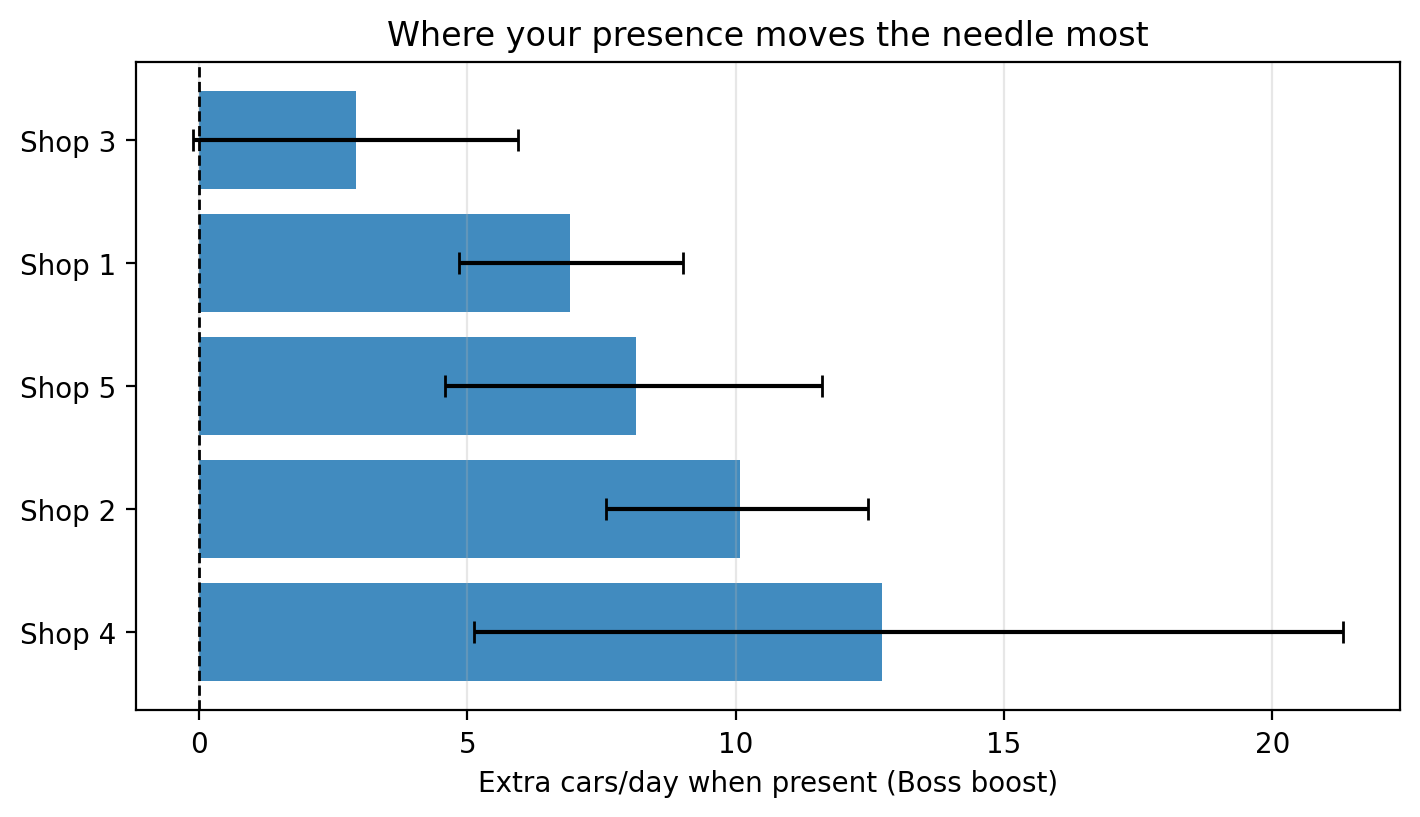
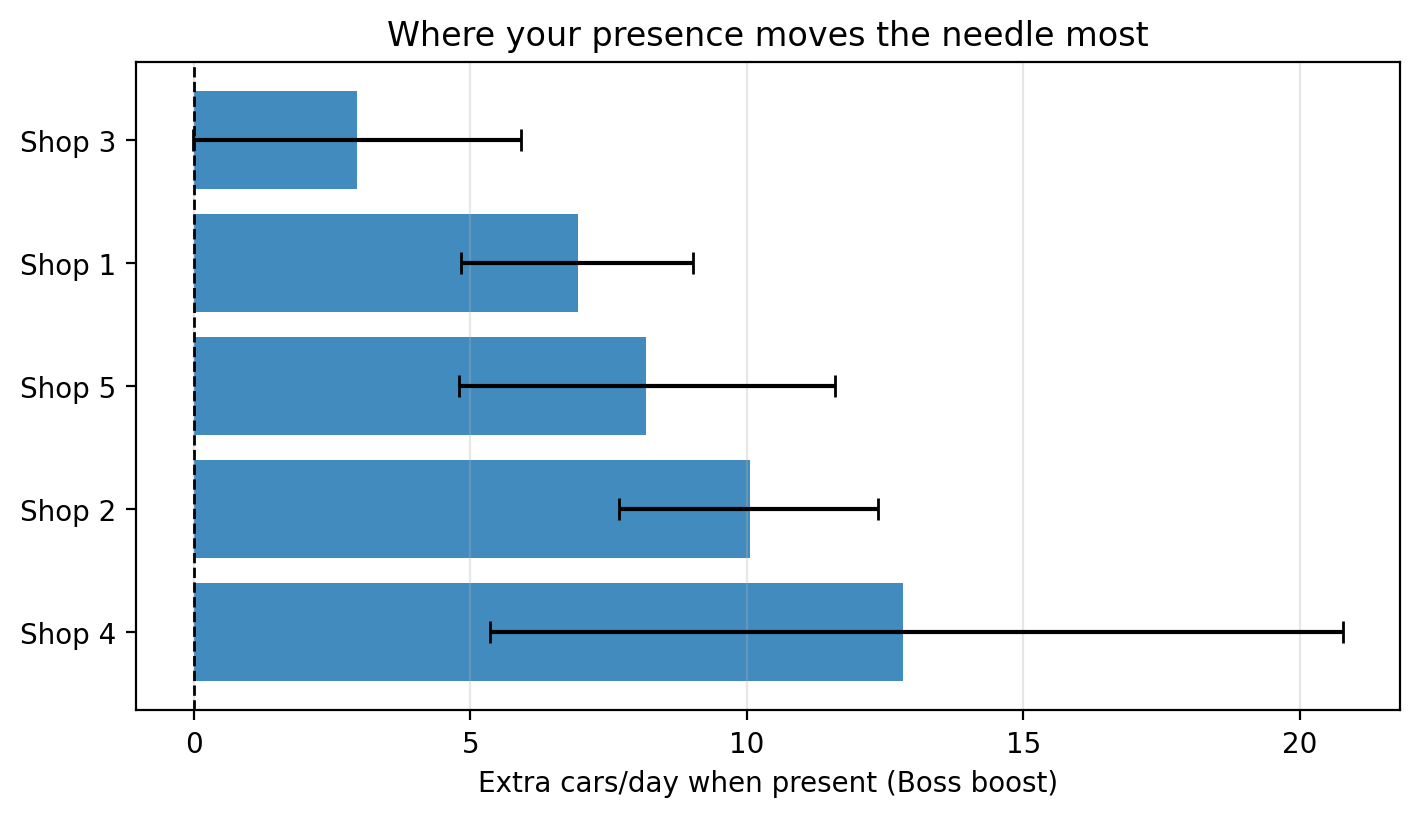
updates to plots

diff --git a/index.html b/index.html
@@ -51,25 +51,25 @@ ul.task-list li input[type="checkbox"] {
     <h2 id="toc-title">Report outline</h2>
    
   <ul class="collapse">
-  <li><a href="#snapshot-what-you-should-do" id="toc-snapshot-what-you-should-do" class="nav-link active" data-scroll-target="#snapshot-what-you-should-do"><span class="header-section-number">1</span> 1. Snapshot: What you should do</a></li>
-  <li><a href="#what-the-data-show" id="toc-what-the-data-show" class="nav-link" data-scroll-target="#what-the-data-show"><span class="header-section-number">2</span> 2. What the data show</a>
+  <li><a href="#snapshot-what-you-should-do" id="toc-snapshot-what-you-should-do" class="nav-link active" data-scroll-target="#snapshot-what-you-should-do"><span class="header-section-number">1</span> Snapshot: What you should do</a></li>
+  <li><a href="#what-the-data-show" id="toc-what-the-data-show" class="nav-link" data-scroll-target="#what-the-data-show"><span class="header-section-number">2</span> What the data show</a>
   <ul class="collapse">
-  <li><a href="#all-250-data-points-in-one-view" id="toc-all-250-data-points-in-one-view" class="nav-link" data-scroll-target="#all-250-data-points-in-one-view"><span class="header-section-number">2.1</span> 2.1 All 250 data points in one view</a></li>
-  <li><a href="#distribution-comparison-by-shop-box-jitter-not-violins" id="toc-distribution-comparison-by-shop-box-jitter-not-violins" class="nav-link" data-scroll-target="#distribution-comparison-by-shop-box-jitter-not-violins"><span class="header-section-number">2.2</span> 2.2 Distribution comparison by shop (box + jitter, not violins)</a></li>
-  <li><a href="#d-view-shop-presence-cars" id="toc-d-view-shop-presence-cars" class="nav-link" data-scroll-target="#d-view-shop-presence-cars"><span class="header-section-number">2.3</span> 2.3 3D view: shop × presence × cars</a></li>
+  <li><a href="#all-shop-days-in-one-view" id="toc-all-shop-days-in-one-view" class="nav-link" data-scroll-target="#all-shop-days-in-one-view"><span class="header-section-number">2.1</span> All shop-days in one view</a></li>
+  <li><a href="#distribution-comparison-by-shop-box-jitter-not-violins" id="toc-distribution-comparison-by-shop-box-jitter-not-violins" class="nav-link" data-scroll-target="#distribution-comparison-by-shop-box-jitter-not-violins"><span class="header-section-number">2.2</span> Distribution comparison by shop (box + jitter, not violins)</a></li>
+  <li><a href="#d-view-shop-presence-cars" id="toc-d-view-shop-presence-cars" class="nav-link" data-scroll-target="#d-view-shop-presence-cars"><span class="header-section-number">2.3</span> 3D view: shop × presence × cars</a></li>
   </ul></li>
-  <li><a href="#how-much-do-you-help-each-shop" id="toc-how-much-do-you-help-each-shop" class="nav-link" data-scroll-target="#how-much-do-you-help-each-shop"><span class="header-section-number">3</span> 3. How much do you help each shop?</a>
+  <li><a href="#how-much-do-you-help-each-shop" id="toc-how-much-do-you-help-each-shop" class="nav-link" data-scroll-target="#how-much-do-you-help-each-shop"><span class="header-section-number">3</span> How much do you help each shop?</a>
   <ul class="collapse">
-  <li><a href="#boss-boost-table" id="toc-boss-boost-table" class="nav-link" data-scroll-target="#boss-boost-table"><span class="header-section-number">3.1</span> 3.1 “Boss boost” table</a></li>
-  <li><a href="#boss-boost-as-a-horizontal-bar-chart-with-cis" id="toc-boss-boost-as-a-horizontal-bar-chart-with-cis" class="nav-link" data-scroll-target="#boss-boost-as-a-horizontal-bar-chart-with-cis"><span class="header-section-number">3.2</span> 3.2 Boss boost as a horizontal bar chart (with CIs)</a></li>
+  <li><a href="#boss-boost-table" id="toc-boss-boost-table" class="nav-link" data-scroll-target="#boss-boost-table"><span class="header-section-number">3.1</span> “Boss boost” table</a></li>
+  <li><a href="#boss-boost-as-a-horizontal-bar-chart-with-cis" id="toc-boss-boost-as-a-horizontal-bar-chart-with-cis" class="nav-link" data-scroll-target="#boss-boost-as-a-horizontal-bar-chart-with-cis"><span class="header-section-number">3.2</span> Boss boost as a horizontal bar chart (with CIs)</a></li>
   </ul></li>
-  <li><a href="#how-confident-can-you-be" id="toc-how-confident-can-you-be" class="nav-link" data-scroll-target="#how-confident-can-you-be"><span class="header-section-number">4</span> 4. How confident can you be?</a></li>
-  <li><a href="#what-different-schedules-mean-in-money" id="toc-what-different-schedules-mean-in-money" class="nav-link" data-scroll-target="#what-different-schedules-mean-in-money"><span class="header-section-number">5</span> 5. What different schedules mean in money</a>
+  <li><a href="#how-confident-can-you-be" id="toc-how-confident-can-you-be" class="nav-link" data-scroll-target="#how-confident-can-you-be"><span class="header-section-number">4</span> How confident can you be?</a></li>
+  <li><a href="#what-different-schedules-mean-in-money" id="toc-what-different-schedules-mean-in-money" class="nav-link" data-scroll-target="#what-different-schedules-mean-in-money"><span class="header-section-number">5</span> What different schedules mean in money</a>
   <ul class="collapse">
-  <li><a href="#month-projection" id="toc-month-projection" class="nav-link" data-scroll-target="#month-projection"><span class="header-section-number">5.1</span> 5.1 12‑month projection</a></li>
+  <li><a href="#month-projection" id="toc-month-projection" class="nav-link" data-scroll-target="#month-projection"><span class="header-section-number">5.1</span> 12‑month projection</a></li>
   </ul></li>
-  <li><a href="#recommended-weekly-plan-pulling-it-together" id="toc-recommended-weekly-plan-pulling-it-together" class="nav-link" data-scroll-target="#recommended-weekly-plan-pulling-it-together"><span class="header-section-number">6</span> 6. Recommended weekly plan (pulling it together)</a></li>
-  <li><a href="#appendix-full-summary-table" id="toc-appendix-full-summary-table" class="nav-link" data-scroll-target="#appendix-full-summary-table"><span class="header-section-number">7</span> 7. Appendix — full summary table</a></li>
+  <li><a href="#recommended-weekly-plan-pulling-it-together" id="toc-recommended-weekly-plan-pulling-it-together" class="nav-link" data-scroll-target="#recommended-weekly-plan-pulling-it-together"><span class="header-section-number">6</span> Recommended weekly plan (pulling it together)</a></li>
+  <li><a href="#appendix-full-summary-table" id="toc-appendix-full-summary-table" class="nav-link" data-scroll-target="#appendix-full-summary-table"><span class="header-section-number">7</span> Appendix — full summary table</a></li>
   </ul>
 </nav>
 </div>
@@ -80,7 +80,7 @@ ul.task-list li input[type="checkbox"] {
 <header id="title-block-header" class="quarto-title-block default">
 <div class="quarto-title">
 <h1 class="title">Patrick’s Auto Shops – Decision Brief</h1>
-<p class="subtitle lead">Using 250 days of data to design your weekly schedule</p>
+<p class="subtitle lead">Using your daily shop data to design your weekly schedule</p>
 </div>
 
 
@@ -98,7 +98,7 @@ ul.task-list li input[type="checkbox"] {
 
 
 <section id="snapshot-what-you-should-do" class="level1" data-number="1">
-<h1 data-number="1"><span class="header-section-number">1</span> 1. Snapshot: What you should do</h1>
+<h1 data-number="1"><span class="header-section-number">1</span> Snapshot: What you should do</h1>
 <p>Patrick, here is the short version your data supports:</p>
 <ul>
 <li>Your presence <strong>helps some shops a lot more than others</strong>.</li>
@@ -112,7 +112,7 @@ ul.task-list li input[type="checkbox"] {
 </ul>
 <p>The rest of this brief explains:</p>
 <ol type="1">
-<li>What the 250 days of data actually look like.</li>
+<li>What your daily data actually look like across shops.</li>
 <li>How much you help each shop and how certain we are.</li>
 <li>What different schedules mean in <strong>dollars per month</strong>.</li>
 <li>A concrete weekly schedule you can follow.</li>
@@ -120,7 +120,7 @@ ul.task-list li input[type="checkbox"] {
 <hr>
 </section>
 <section id="what-the-data-show" class="level1" data-number="2">
-<h1 data-number="2"><span class="header-section-number">2</span> 2. What the data show</h1>
+<h1 data-number="2"><span class="header-section-number">2</span> What the data show</h1>
 <p>Each row in <code>carsFixed.csv</code> is one <strong>shop-day</strong>:</p>
 <ul>
 <li>which shop it was,</li>
@@ -373,9 +373,9 @@ Table&nbsp;2: Summary statistics by shop and boss presence
 </figure>
 </div>
 </div>
-<section id="all-250-data-points-in-one-view" class="level2" data-number="2.1">
-<h2 data-number="2.1" class="anchored" data-anchor-id="all-250-data-points-in-one-view"><span class="header-section-number">2.1</span> 2.1 All 250 data points in one view</h2>
-<p>This figure shows <strong>every day</strong> in the data (all 250 points), colored by your presence and arranged by shop.</p>
+<section id="all-shop-days-in-one-view" class="level2" data-number="2.1">
+<h2 data-number="2.1" class="anchored" data-anchor-id="all-shop-days-in-one-view"><span class="header-section-number">2.1</span> All shop-days in one view</h2>
+<p>This figure shows <strong>every recorded day</strong> in the data, colored by your presence and arranged by shop.</p>
 <div id="cell-fig-all-points" class="cell" data-execution_count="4">
 <div class="cell-output cell-output-display">
 <div id="fig-all-points" class="quarto-float quarto-figure quarto-figure-center anchored">
@@ -384,7 +384,7 @@ Table&nbsp;2: Summary statistics by shop and boss presence
 <img src="index_files/figure-html/fig-all-points-output-1.png" width="1087" height="388" class="figure-img">
 </div>
 <figcaption class="quarto-float-caption-bottom quarto-float-caption quarto-float-fig" id="fig-all-points-caption-0ceaefa1-69ba-4598-a22c-09a6ac19f8ca">
-Figure&nbsp;1: All 250 days: one dot per day, colored by your presence
+Figure&nbsp;1: All days in the dataset: one dot per day, colored by your presence
 </figcaption>
 </figure>
 </div>
@@ -392,7 +392,7 @@ Figure&nbsp;1: All 250 days: one dot per day, colored by your presence
 </div>
 </section>
 <section id="distribution-comparison-by-shop-box-jitter-not-violins" class="level2" data-number="2.2">
-<h2 data-number="2.2" class="anchored" data-anchor-id="distribution-comparison-by-shop-box-jitter-not-violins"><span class="header-section-number">2.2</span> 2.2 Distribution comparison by shop (box + jitter, not violins)</h2>
+<h2 data-number="2.2" class="anchored" data-anchor-id="distribution-comparison-by-shop-box-jitter-not-violins"><span class="header-section-number">2.2</span> Distribution comparison by shop (box + jitter, not violins)</h2>
 <p>Here we show the <strong>spread</strong> of productivity at each shop with and without you, using boxplots plus jittered points (no violin shapes).</p>
 <div id="cell-fig-box-strip" class="cell" data-execution_count="5">
 <div class="cell-output cell-output-display">
@@ -410,7 +410,7 @@ Figure&nbsp;2: Daily productivity by shop and presence: boxplots with individual
 </div>
 </section>
 <section id="d-view-shop-presence-cars" class="level2" data-number="2.3">
-<h2 data-number="2.3" class="anchored" data-anchor-id="d-view-shop-presence-cars"><span class="header-section-number">2.3</span> 2.3 3D view: shop × presence × cars</h2>
+<h2 data-number="2.3" class="anchored" data-anchor-id="d-view-shop-presence-cars"><span class="header-section-number">2.3</span> 3D view: shop × presence × cars</h2>
 <p>To give you a different angle on the same data, this 3D plot summarizes the <strong>average cars per day</strong> for each shop and presence combination.</p>
 <div id="cell-fig-3d" class="cell" data-execution_count="6">
 <div class="cell-output cell-output-display">
@@ -429,9 +429,9 @@ Figure&nbsp;3: 3D view: average cars/day by shop and boss presence
 </section>
 </section>
 <section id="how-much-do-you-help-each-shop" class="level1" data-number="3">
-<h1 data-number="3"><span class="header-section-number">3</span> 3. How much do you help each shop?</h1>
+<h1 data-number="3"><span class="header-section-number">3</span> How much do you help each shop?</h1>
 <section id="boss-boost-table" class="level2" data-number="3.1">
-<h2 data-number="3.1" class="anchored" data-anchor-id="boss-boost-table"><span class="header-section-number">3.1</span> 3.1 “Boss boost” table</h2>
+<h2 data-number="3.1" class="anchored" data-anchor-id="boss-boost-table"><span class="header-section-number">3.1</span> “Boss boost” table</h2>
 <p>We define:</p>
 <blockquote class="blockquote">
 <p><strong>Boss boost = mean cars/day when you are Present − mean cars/day when you are Away.</strong></p>
@@ -504,7 +504,7 @@ Table&nbsp;3: Shops ranked by extra cars/day when you are present
 </div>
 </section>
 <section id="boss-boost-as-a-horizontal-bar-chart-with-cis" class="level2" data-number="3.2">
-<h2 data-number="3.2" class="anchored" data-anchor-id="boss-boost-as-a-horizontal-bar-chart-with-cis"><span class="header-section-number">3.2</span> 3.2 Boss boost as a horizontal bar chart (with CIs)</h2>
+<h2 data-number="3.2" class="anchored" data-anchor-id="boss-boost-as-a-horizontal-bar-chart-with-cis"><span class="header-section-number">3.2</span> Boss boost as a horizontal bar chart (with CIs)</h2>
 <p>This figure shows where your time <strong>creates the most extra cars per day</strong>, with uncertainty bars when we can estimate them.</p>
 <div id="cell-fig-boost-bars" class="cell" data-execution_count="8">
 <div class="cell-output cell-output-display">
@@ -523,7 +523,7 @@ Figure&nbsp;4: Extra cars/day when you are present, with uncertainty bars
 </section>
 </section>
 <section id="how-confident-can-you-be" class="level1" data-number="4">
-<h1 data-number="4"><span class="header-section-number">4</span> 4. How confident can you be?</h1>
+<h1 data-number="4"><span class="header-section-number">4</span> How confident can you be?</h1>
 <div class="cell" data-execution_count="9">
 <div id="tbl-ci" class="cell quarto-float quarto-figure quarto-figure-center anchored" data-execution_count="9">
 <figure class="quarto-float quarto-float-tbl figure">
@@ -549,37 +549,37 @@ Table&nbsp;4: Bootstrap confidence intervals for boss boost by shop
 <tr class="odd">
 <th data-quarto-table-cell-role="th">0</th>
 <td>1</td>
-<td>6.91</td>
-<td>4.85</td>
+<td>6.95</td>
+<td>4.83</td>
 <td>9.02</td>
 </tr>
 <tr class="even">
 <th data-quarto-table-cell-role="th">1</th>
 <td>2</td>
-<td>10.08</td>
-<td>7.58</td>
-<td>12.47</td>
+<td>10.07</td>
+<td>7.69</td>
+<td>12.38</td>
 </tr>
 <tr class="odd">
 <th data-quarto-table-cell-role="th">2</th>
 <td>3</td>
-<td>2.93</td>
-<td>-0.10</td>
-<td>5.95</td>
+<td>2.96</td>
+<td>-0.01</td>
+<td>5.92</td>
 </tr>
 <tr class="even">
 <th data-quarto-table-cell-role="th">3</th>
 <td>4</td>
-<td>12.73</td>
-<td>5.13</td>
-<td>21.31</td>
+<td>12.83</td>
+<td>5.36</td>
+<td>20.78</td>
 </tr>
 <tr class="odd">
 <th data-quarto-table-cell-role="th">4</th>
 <td>5</td>
-<td>8.15</td>
-<td>4.58</td>
-<td>11.62</td>
+<td>8.18</td>
+<td>4.79</td>
+<td>11.60</td>
 </tr>
 </tbody>
 </table>
@@ -597,7 +597,7 @@ Table&nbsp;4: Bootstrap confidence intervals for boss boost by shop
 </ul>
 </section>
 <section id="what-different-schedules-mean-in-money" class="level1" data-number="5">
-<h1 data-number="5"><span class="header-section-number">5</span> 5. What different schedules mean in money</h1>
+<h1 data-number="5"><span class="header-section-number">5</span> What different schedules mean in money</h1>
 <p>Assume:</p>
 <ul>
 <li><strong>$200 profit per car</strong>, and</li>
@@ -626,7 +626,7 @@ Figure&nbsp;5: Extra profit per month vs a ‘never visit’ baseline
 </div>
 </div>
 <section id="month-projection" class="level2" data-number="5.1">
-<h2 data-number="5.1" class="anchored" data-anchor-id="month-projection"><span class="header-section-number">5.1</span> 5.1 12‑month projection</h2>
+<h2 data-number="5.1" class="anchored" data-anchor-id="month-projection"><span class="header-section-number">5.1</span> 12‑month projection</h2>
 <p>Here we project the same three strategies over 12 months, assuming the pattern continues.</p>
 <div id="cell-fig-projection" class="cell" data-execution_count="11">
 <div class="cell-output cell-output-display">
@@ -645,11 +645,11 @@ Figure&nbsp;6: Cumulative extra profit over 12 months for each strategy
 </section>
 </section>
 <section id="recommended-weekly-plan-pulling-it-together" class="level1" data-number="6">
-<h1 data-number="6"><span class="header-section-number">6</span> 6. Recommended weekly plan (pulling it together)</h1>
+<h1 data-number="6"><span class="header-section-number">6</span> Recommended weekly plan (pulling it together)</h1>
 <p>Based on the boss-boost rankings and CIs:</p>
 <ul>
-<li>Spend <strong>Monday–Wednesday</strong> at the <strong>highest-boost shop</strong>.</li>
-<li>Spend <strong>Thursday–Friday</strong> at the <strong>second-highest-boost shop</strong>.</li>
+<li>Spend <strong>roughly half of your days</strong> at the <strong>highest‑boost shop</strong>.</li>
+<li>Spend the <strong>other half</strong> at the <strong>second‑highest‑boost shop</strong>. One simple pattern is <strong>Mon–Wed</strong> at the top shop and <strong>Thu–Fri</strong> at the second.</li>
 <li>Visit other shops, including your brother’s, <strong>only when there is a clear reason</strong> (new staff, big jobs, problems).</li>
 </ul>
 <p>Re-run this brief every few months:</p>
@@ -659,7 +659,7 @@ Figure&nbsp;6: Cumulative extra profit over 12 months for each strategy
 </ul>
 </section>
 <section id="appendix-full-summary-table" class="level1" data-number="7">
-<h1 data-number="7"><span class="header-section-number">7</span> 7. Appendix — full summary table</h1>
+<h1 data-number="7"><span class="header-section-number">7</span> Appendix — full summary table</h1>
 <div class="cell" data-execution_count="12">
 <div id="tbl-summary-full" class="cell quarto-float quarto-figure quarto-figure-center anchored" data-execution_count="12">
 <figure class="quarto-float quarto-float-tbl figure">
